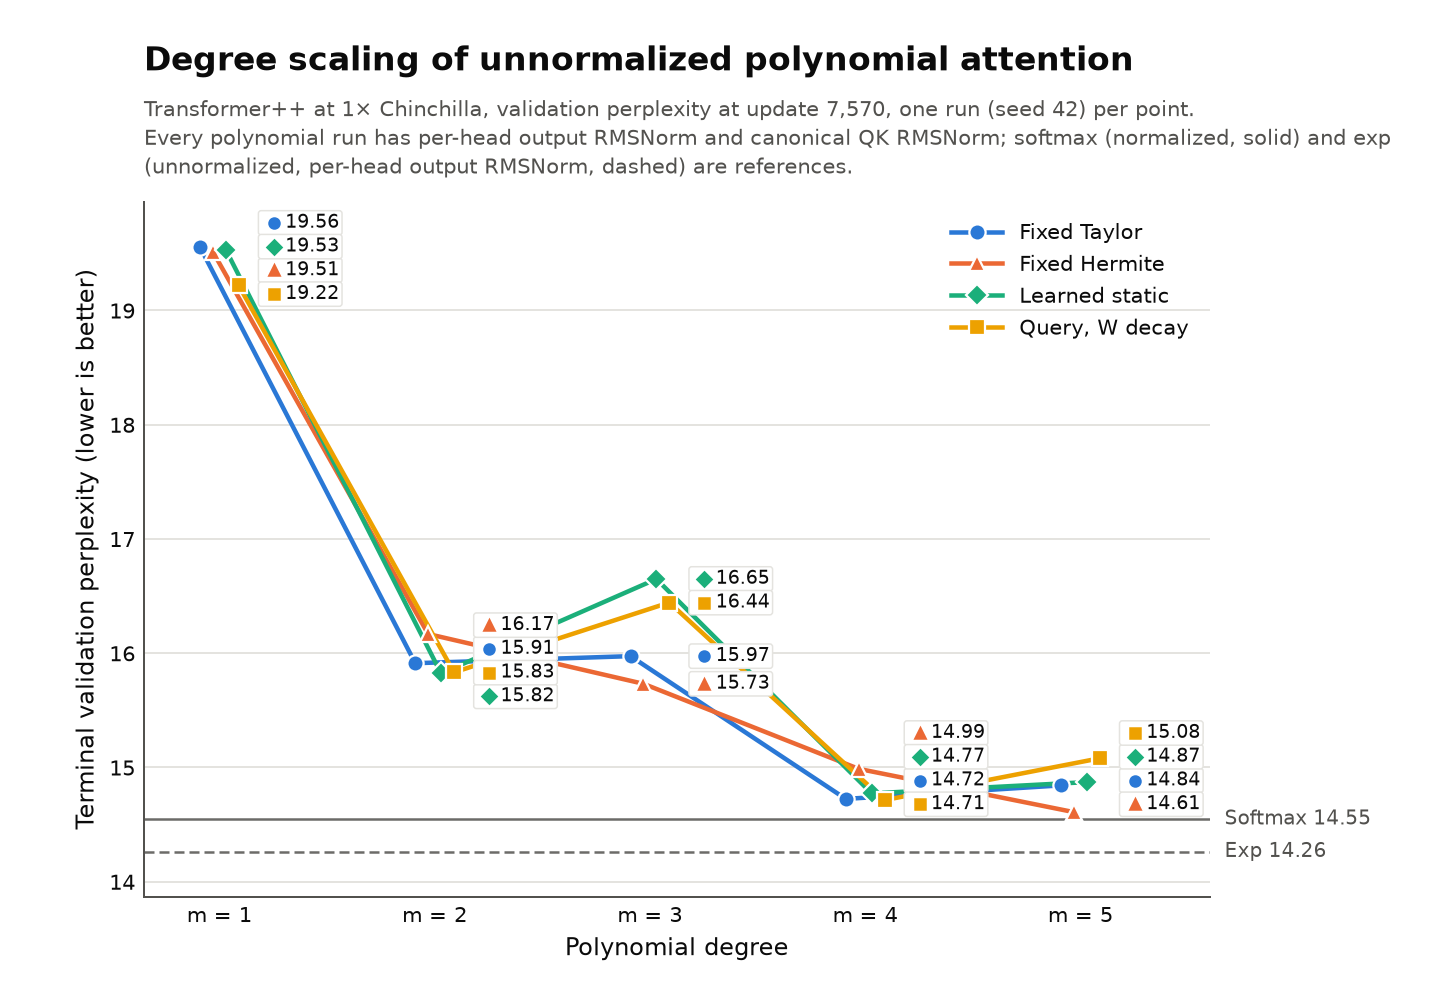
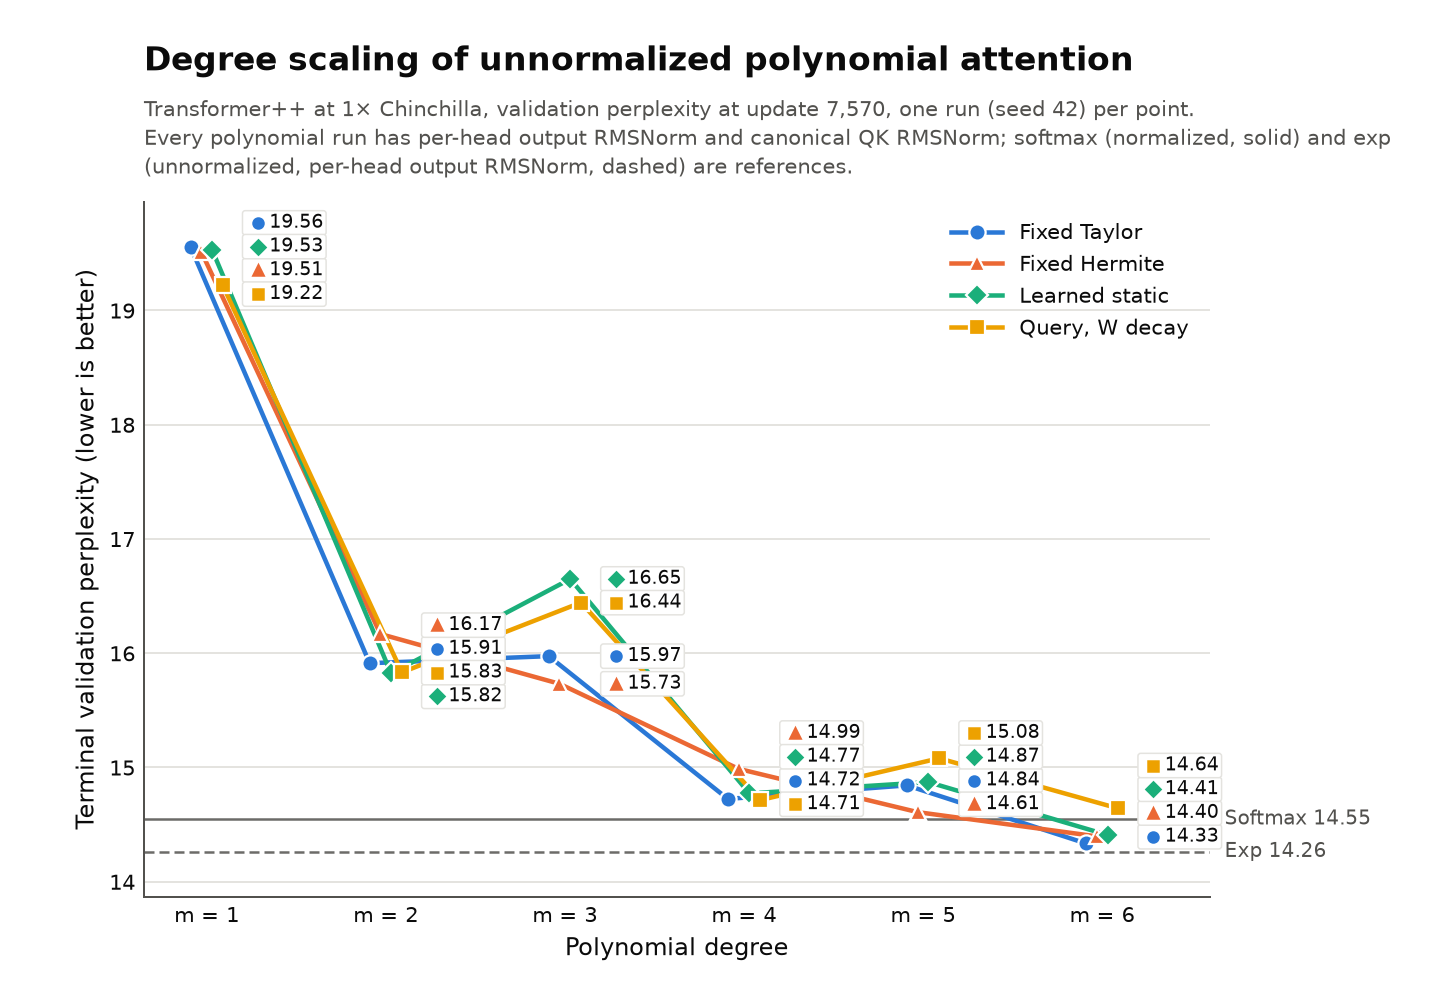
Extend the degree_scaling collection to m = 6
The selection adds the four m = 6 runs, and the figure, summary, generated tables,
and tests cover m = 1-6. Every family improves at m = 6: fixed Taylor 14.334,
fixed Hermite 14.396, and learned static 14.408 end 0.9-1.5% below softmax, and
query W decay ends at 14.641. Taylor at m = 6 is 0.5% above exp, the closest any
polynomial here comes. One seed per cell.

diff --git a/experiments/transformer_pp/results/degree_scaling/tests/test_degree_scaling.py b/experiments/transformer_pp/results/degree_scaling/tests/test_degree_scaling.py
@@ -17,13 +17,13 @@ DERIVED = ("degree_scaling.png", "degree_scaling.pdf", "summary.csv", "README.md
 # Terminal validation perplexity at update 7,570, as quoted in the README.
 TERMINAL = {
     ("taylor", 1): 19.556, ("taylor", 2): 15.912, ("taylor", 3): 15.974, ("taylor", 4): 14.724,
-    ("taylor", 5): 14.843,
+    ("taylor", 5): 14.843, ("taylor", 6): 14.334,
     ("hermite", 1): 19.513, ("hermite", 2): 16.168, ("hermite", 3): 15.732, ("hermite", 4): 14.987,
-    ("hermite", 5): 14.609,
+    ("hermite", 5): 14.609, ("hermite", 6): 14.396,
     ("static", 1): 19.531, ("static", 2): 15.822, ("static", 3): 16.649, ("static", 4): 14.773,
-    ("static", 5): 14.871,
+    ("static", 5): 14.871, ("static", 6): 14.408,
     ("query_w_decay", 1): 19.219, ("query_w_decay", 2): 15.832, ("query_w_decay", 3): 16.443,
-    ("query_w_decay", 4): 14.714, ("query_w_decay", 5): 15.080,
+    ("query_w_decay", 4): 14.714, ("query_w_decay", 5): 15.080, ("query_w_decay", 6): 14.641,
 }
 
 
@@ -34,7 +34,7 @@ def _digest(path: Path) -> str:
 def test_committed_runs_and_quoted_values():
     rows = load_runs(SELECTION)
     cells = {(row["family"], row["degree"]): row for row in rows if row["role"] == "primary"}
-    assert len(rows) == 22 and set(cells) == set(TERMINAL)
+    assert len(rows) == 26 and set(cells) == set(TERMINAL)
     assert {row["terminal_step"] for row in rows} == {7570}
     assert {row["best_validation_step"] for row in rows} == {7500}
     for cell, value in TERMINAL.items():
@@ -47,6 +47,11 @@ def test_committed_runs_and_quoted_values():
     assert cells["query_w_decay", 5]["change_from_previous_degree_percent"] == pytest.approx(2.49, abs=5e-3)
     assert cells["hermite", 5]["change_from_previous_degree_percent"] == pytest.approx(-2.53, abs=5e-3)
     assert cells["hermite", 5]["percent_above_softmax"] == pytest.approx(0.43, abs=5e-3)
+    # m = 6: every family improves; Taylor, Hermite, and static end below softmax.
+    assert cells["taylor", 6]["change_from_previous_degree_percent"] == pytest.approx(-3.43, abs=5e-3)
+    assert cells["taylor", 6]["percent_above_softmax"] == pytest.approx(-1.46, abs=5e-3)
+    assert cells["taylor", 6]["percent_above_exp"] == pytest.approx(0.51, abs=5e-3)
+    assert cells["query_w_decay", 6]["percent_above_softmax"] == pytest.approx(0.65, abs=5e-3)
     # The m = 1 Taylor and Hermite runs train the same function; their gap is the noise scale.
     twin = cells["taylor", 1]["terminal_validation_perplexity"] - cells["hermite", 1]["terminal_validation_perplexity"]
     assert twin == pytest.approx(0.042, abs=5e-4)

diff --git a/experiments/transformer_pp/results/degree_scaling/README.md b/experiments/transformer_pp/results/degree_scaling/README.md
@@ -1,7 +1,7 @@
 # Degree scaling at 1×
 
 **Question.** How does held-out perplexity change with the polynomial degree
-`m = 1, 2, 3, 4, 5` for fixed Taylor, fixed Hermite, learned static, and query
+`m = 1, 2, 3, 4, 5, 6` for fixed Taylor, fixed Hermite, learned static, and query
 coefficients with projection weight decay, under the Transformer++ recipe at 1×
 Chinchilla?
 
@@ -24,12 +24,12 @@ Mosaic kernels.
 - **Query, W decay:** `c_r(x_t) = [b_r + a_r tanh(w_r^T x_t)]/r!` per layer and head,
   starting at Taylor, with AdamW weight decay 0.1 on the projection `w_r`.
 
-| Family | m = 1 | m = 2 | m = 3 | m = 4 | m = 5 |
-| --- | --- | --- | --- | --- | --- |
-| Fixed Taylor | `ra7f2fda1c792` | `rdb1c706a5b85` | `r81fad1755b11` | `r816ab0fbe119` | `r8a526282ac43` |
-| Fixed Hermite | `rddf0b0173f42` | `rdf6363a4b83c` | `rf378c0e67607` | `rbd0cd771c676` | `rf1993c745e17` |
-| Learned static | `r5c691128699f` | `r99c3ab7d8a77` | `r1f880c4ee659` | `r4339a245820e` | `r3feaf71ff7af` |
-| Query, W decay | `rf9099d70ab3a` | `rd6b4d16d81bb` | `r00f1f91a7803` | `rca97cc9db8f2` | `r5de86f9f02da` |
+| Family | m = 1 | m = 2 | m = 3 | m = 4 | m = 5 | m = 6 |
+| --- | --- | --- | --- | --- | --- | --- |
+| Fixed Taylor | `ra7f2fda1c792` | `rdb1c706a5b85` | `r81fad1755b11` | `r816ab0fbe119` | `r8a526282ac43` | `r167091e2aeac` |
+| Fixed Hermite | `rddf0b0173f42` | `rdf6363a4b83c` | `rf378c0e67607` | `rbd0cd771c676` | `rf1993c745e17` | `r3a332ae60437` |
+| Learned static | `r5c691128699f` | `r99c3ab7d8a77` | `r1f880c4ee659` | `r4339a245820e` | `r3feaf71ff7af` | `r5e6f23bd0533` |
+| Query, W decay | `rf9099d70ab3a` | `rd6b4d16d81bb` | `r00f1f91a7803` | `rca97cc9db8f2` | `r5de86f9f02da` | `r688344e6dcc6` |
 
 Four cells reuse completed Kennel runs: Taylor at `m = 4` (B300) and static at `m = 4`
 (H100 PCIe) trained with the earlier host-loop trainer, and query at `m = 2` (B300) and
@@ -46,10 +46,9 @@ for Hermite, the fixed coefficients. They trained on ORCD H100 80GB HBM3s with t
 scaffold code as the other ORCD cells; static resumed once from update 4,500 after a
 preemption.
 
-An `m = 6` column runs on ORCD H100s with the same code: fixed Taylor `r167091e2aeac`,
-fixed Hermite `r3a332ae60437`, learned static `r5e6f23bd0533`, and query, W decay
-`r688344e6dcc6`, each its family's `m = 5` recipe with degree 6. The figure, tables, and
-selection cover `m = 1-5` until they finish.
+The four `m = 6` runs copy their family's `m = 5` recipe with degree 6 (and, for Hermite,
+the degree-6 coefficients) and trained on ORCD H100 80GB HBM3s with the same scaffold
+code, from a branch started at `ba8494e7`.
 
 Hermite at `m = 1` is `exp(1/2)` times Taylor at `m = 1`. The output RMSNorm removes
 that factor, so the two runs train the same function up to the norm's epsilon and
@@ -62,30 +61,30 @@ No cell has a second seed.
 
 **Terminal validation perplexity (update 7,570); lowest per degree in bold**
 
-| Family | m = 1 | m = 2 | m = 3 | m = 4 | m = 5 |
-| --- | ---: | ---: | ---: | ---: | ---: |
-| Fixed Taylor | 19.556 | 15.912 | 15.974 | 14.724 | 14.843 |
-| Fixed Hermite | 19.513 | 16.168 | **15.732** | 14.987 | **14.609** |
-| Learned static | 19.531 | **15.822** | 16.649 | 14.773 | 14.871 |
-| Query, W decay | **19.219** | 15.832 | 16.443 | **14.714** | 15.080 |
+| Family | m = 1 | m = 2 | m = 3 | m = 4 | m = 5 | m = 6 |
+| --- | ---: | ---: | ---: | ---: | ---: | ---: |
+| Fixed Taylor | 19.556 | 15.912 | 15.974 | 14.724 | 14.843 | **14.334** |
+| Fixed Hermite | 19.513 | 16.168 | **15.732** | 14.987 | **14.609** | 14.396 |
+| Learned static | 19.531 | **15.822** | 16.649 | 14.773 | 14.871 | 14.408 |
+| Query, W decay | **19.219** | 15.832 | 16.443 | **14.714** | 15.080 | 14.641 |
 
 **Validation-best perplexity (update 7,500 in every run)**
 
-| Family | m = 1 | m = 2 | m = 3 | m = 4 | m = 5 |
-| --- | ---: | ---: | ---: | ---: | ---: |
-| Fixed Taylor | 19.541 | 15.907 | 15.968 | 14.722 | 14.841 |
-| Fixed Hermite | 19.495 | 16.164 | 15.722 | 14.984 | 14.602 |
-| Learned static | 19.522 | 15.820 | 16.640 | 14.767 | 14.868 |
-| Query, W decay | 19.205 | 15.827 | 16.436 | 14.709 | 15.074 |
+| Family | m = 1 | m = 2 | m = 3 | m = 4 | m = 5 | m = 6 |
+| --- | ---: | ---: | ---: | ---: | ---: | ---: |
+| Fixed Taylor | 19.541 | 15.907 | 15.968 | 14.722 | 14.841 | 14.328 |
+| Fixed Hermite | 19.495 | 16.164 | 15.722 | 14.984 | 14.602 | 14.393 |
+| Learned static | 19.522 | 15.820 | 16.640 | 14.767 | 14.868 | 14.406 |
+| Query, W decay | 19.205 | 15.827 | 16.436 | 14.709 | 15.074 | 14.637 |
 
 **Change in terminal perplexity from the previous degree**
 
-| Family | m = 1 | m = 2 | m = 3 | m = 4 | m = 5 |
-| --- | ---: | ---: | ---: | ---: | ---: |
-| Fixed Taylor | – | -18.6% | +0.4% | -7.8% | +0.8% |
-| Fixed Hermite | – | -17.1% | -2.7% | -4.7% | -2.5% |
-| Learned static | – | -19.0% | +5.2% | -11.3% | +0.7% |
-| Query, W decay | – | -17.6% | +3.9% | -10.5% | +2.5% |
+| Family | m = 1 | m = 2 | m = 3 | m = 4 | m = 5 | m = 6 |
+| --- | ---: | ---: | ---: | ---: | ---: | ---: |
+| Fixed Taylor | – | -18.6% | +0.4% | -7.8% | +0.8% | -3.4% |
+| Fixed Hermite | – | -17.1% | -2.7% | -4.7% | -2.5% | -1.5% |
+| Learned static | – | -19.0% | +5.2% | -11.3% | +0.7% | -3.1% |
+| Query, W decay | – | -17.6% | +3.9% | -10.5% | +2.5% | -2.9% |
 
 Softmax reference (`r9040f12f3d80`): terminal 14.546, validation-best 14.543 (update 7,500).
 
@@ -93,11 +92,11 @@ Exp reference (`r6a76e7fbde45`): terminal 14.262, validation-best 14.257 (update
 
 <!-- END GENERATED RESULTS -->
 
-- **All twenty runs finished the 7,570 updates** with no numerical failure. Every run's
+- **All twenty-four runs finished the 7,570 updates** with no numerical failure. Every run's
   validation-best checkpoint is update 7,500, and its terminal perplexity is at most 0.1%
   higher; both metrics order the cells the same way.
 - **Going from `m = 1` to 2 is the largest step in every family**, 17–19% lower
-  perplexity. Taylor, static, and query are best at `m = 4`, Hermite at `m = 5`.
+  perplexity, and every family is best at `m = 6`.
 - **At `m = 4`, query (14.714), Taylor (14.724) and static (14.773) lie within 0.4% of
   one another**, inside the resolution below; Hermite (14.987) is 1.5–1.9% higher. All
   four stay 1.2–3.0% above softmax (14.546) and 3.2–5.1% above exp (14.262).
@@ -114,10 +113,14 @@ Exp reference (`r6a76e7fbde45`): terminal 14.262, validation-best 14.257 (update
   rounding; whether they are systematic or one unlucky seed is untested.
 - **`m = 5` is worse than `m = 4` for the three families that start from Taylor.** Taylor (+0.8%), static
   (+0.7%), and query (+2.5%) end higher at `m = 5` than at `m = 4`, while Hermite improves
-  2.5% to 14.609, the lowest polynomial perplexity here: 0.4% above softmax and 2.4% above
-  exp. Across `m = 2-5`, Taylor, static, and query improve at the even degrees and stall or
-  worsen at the odd ones; Hermite improves at every degree, trailing Taylor at the even
-  degrees and leading it at the odd ones.
+  2.5% to 14.609, 0.4% above softmax and 2.4% above exp. Across `m = 2-6`, Taylor, static,
+  and query improve at the even degrees and stall or worsen at the odd ones; Hermite
+  improves at every degree, trailing Taylor at the even degrees and leading it at the odd
+  ones.
+- **At `m = 6` every family improves, and three end below softmax.** Taylor (14.334, −3.4%
+  from `m = 5`), Hermite (14.396, −1.5%), and static (14.408, −3.1%) end 0.9–1.5% below
+  softmax (14.546); query (14.641, −2.9%) stays 0.7% above it. Fixed Taylor at `m = 6` is
+  0.5% above exp (14.262), the closest any polynomial here comes.
 - **Equivalent runs diverge by about 0.2%.** Taylor and Hermite at `m = 1` end 0.042 apart
   (19.556 and 19.513). Learned static at `m = 1` adds nothing the per-head score scale
   cannot express while its constant coefficient stays positive, which it does in all 210
